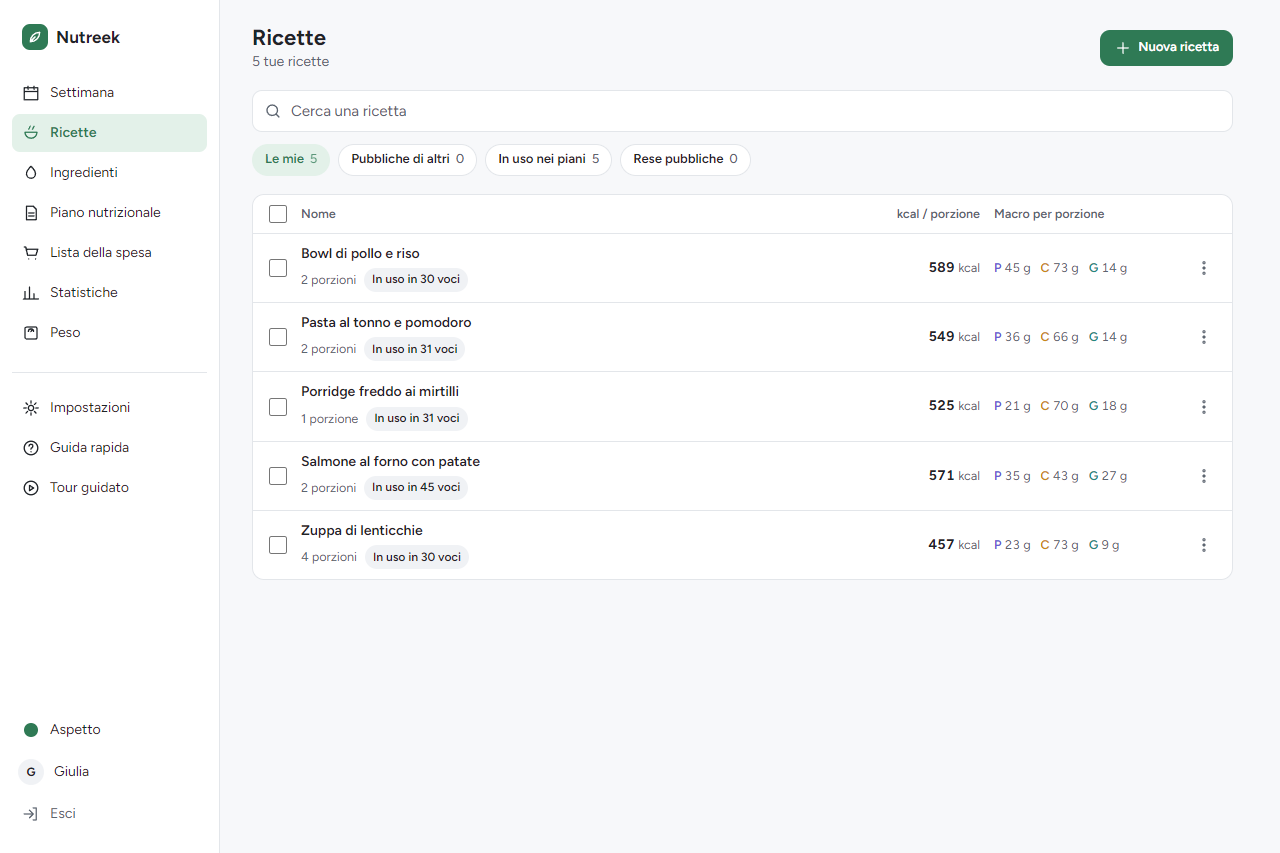
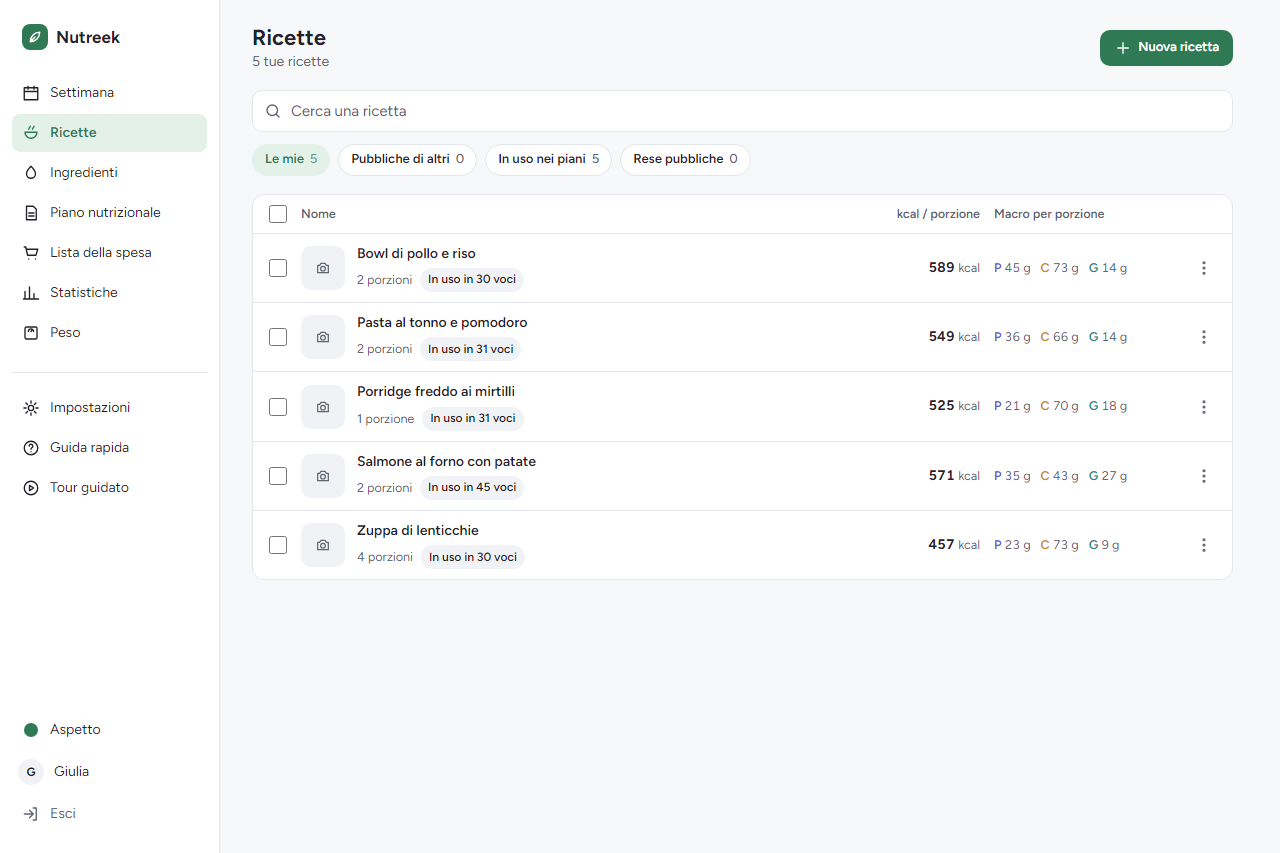
docs: refresh the CHANGELOG, READMEs and screenshots after the feedback batch
Merge the two Changed headings in [Unreleased] and drop the stale
migration 0032 sentence the CSV bootstrap (#211) replaced. Both READMEs
mention the recipe photo, in-place quantities in grams or pieces, and the
daily OpenFoodFacts update. Retake the recipe list, the scanned product in
the picker and Administration (now the Overview with the OpenFoodFacts
card) from the demo seed, in English and Italian.

diff --git a/CHANGELOG.md b/CHANGELOG.md
@@ -19,14 +19,12 @@ The entries up to 2.0.0 link to issues and pull requests written in Italian: the
 ### Changed
 - Quantities above 100,000 are refused when adding or editing a recipe ingredient or a weekly plan item (#206)
 - The ingredient forms refuse a weight of one piece that is not a number, instead of dropping it silently; an empty field still means no weight (#206)
-
-### Changed
 - The OpenFoodFacts sync no longer downloads the 13 GB dump every week: it bootstraps from the 0.8 GB CSV export, then applies only the daily changes OpenFoodFacts publishes. It downloads the CSV again when the instance missed more than ~13 days of changes, when the parser changes, or every 30 days, to drop the products OpenFoodFacts deleted. Searches keep answering with the previous products while a download runs, and a failed or suspiciously small one leaves them in place (migration 0034) (#211)
 - `NUTREEK_OFF_DUMP_URL` is replaced by `NUTREEK_OFF_CSV_URL` and `NUTREEK_OFF_DELTA_URL`; `NUTREEK_OFF_SYNC_INTERVAL` defaults to `24h`. `POST /admin/refresh-off-dump` forces a CSV download, and the OpenFoodFacts card in Administration shows the last full download, the last daily changes and the date the data reaches (#211)
 
 ### Fixed
 - The week import keeps the pieces of a CSV exported in pieces, instead of reading them as grams (#206)
-- OpenFoodFacts products show their photo and macros again: the Syncer reads the dump's new shape (nutrients in `nutrition.aggregated_set`, the front image from `images.selected.front`, Italian first, then English) as well as the old one, and no longer guesses a French photo when there is none. The first sync after upgrading reads the dump again even when it has not changed (migration 0032) (#204)
+- OpenFoodFacts products show their photo and macros again: the Syncer reads the dump's new shape (nutrients in `nutrition.aggregated_set`, the front image from `images.selected.front`, Italian first, then English) as well as the old one, and no longer guesses a French photo when there is none. (#204)
 - Searching OpenFoodFacts offers only products that can be imported, with all four macros, so picking one no longer fails with «OFF product without complete macros»; a scanned code without macros offers to create the ingredient instead. Exact duplicates (same name, brand and macros) appear once, and every row shows its kcal per 100 g and package size (#204)
 - Upgrading: the first start downloads and re-imports the OpenFoodFacts data once (about 0.8 GB); OpenFoodFacts search results are limited until it finishes (#204, #211)
 - Clearing the ingredient picker's search brings back what the picker showed before any search, and a slow answer for an older query no longer repaints the results (#205)

diff --git a/README.md b/README.md
@@ -50,8 +50,8 @@ The interface is in **English** and **Italian**. Each user picks the language in
 | Area | What it does |
 |------|-------------|
 | **Weekly plans** | One day at a time with a calorie ring and macros, meals, water and workouts; macros per meal, day and week, cheat meals, copy from the previous week |
-| **Ingredients** | Local FTS5 search (<50 ms, offline) with product photos, a barcode scanner in every food picker, OpenFoodFacts reconciliation |
-| **Recipes** | Built from ingredients, imported automatically from a URL (schema.org/Recipe) |
+| **Ingredients** | Local FTS5 search (<50 ms, offline) with product photos, a barcode scanner in every food picker, a local OpenFoodFacts copy that updates daily, OpenFoodFacts reconciliation |
+| **Recipes** | Built from ingredients, imported automatically from a URL (schema.org/Recipe), with a photo; quantities edited in place, in grams or pieces |
 | **Templates** | Reusable weekly templates, applied in one click |
 | **Nutrition plan** | Meal variants, automatic week generation with a greedy algorithm that aims at your macro targets |
 | **Shopping list** | Generated from the selected week, grouped by aisle |

diff --git a/README.it.md b/README.it.md
@@ -50,8 +50,8 @@ L'interfaccia è in **italiano** e in **inglese**. Ogni utente sceglie la lingua
 | Area | Funzionalità |
 |------|-------------|
 | **Piani settimanali** | Un giorno alla volta con anello kcal e macro, pasti, acqua e allenamenti; macro per pasto/giorno/settimana, sgarri, copia da settimana precedente |
-| **Ingredienti** | Ricerca locale FTS5 (<50 ms, offline) con foto dei prodotti, scanner del codice a barre nei picker, riconciliazione OFF |
-| **Ricette** | Creazione con ingredienti, import automatico da URL (schema.org/Recipe) |
+| **Ingredienti** | Ricerca locale FTS5 (<50 ms, offline) con foto dei prodotti, scanner del codice a barre nei picker, copia locale di OpenFoodFacts aggiornata ogni giorno, riconciliazione OFF |
+| **Ricette** | Creazione con ingredienti, import automatico da URL (schema.org/Recipe), con foto; quantità modificabili sul posto, in grammi o pezzi |
 | **Template** | Template settimanali riutilizzabili, applicazione one-click |
 | **Piano nutrizionista** | Varianti pasto, generazione automatica settimana con algoritmo greedy (target macro) |
 | **Lista spesa** | Generazione automatica dalla settimana selezionata |
